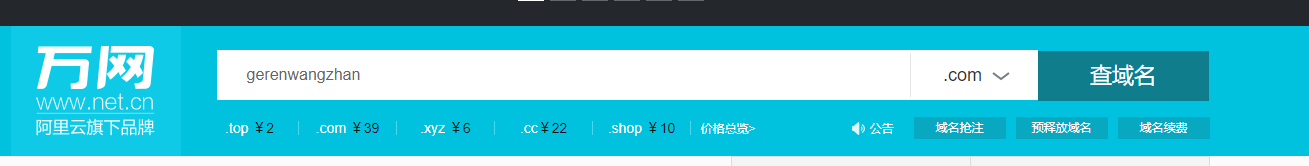
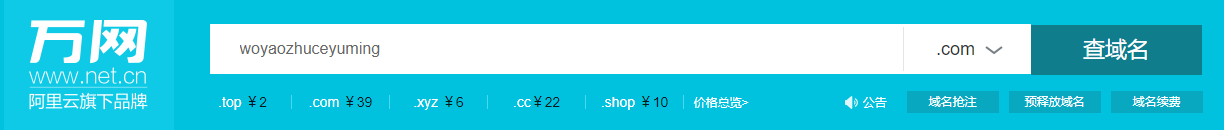
增加个人建站分享（一）

diff --git a/essay/essay01.html b/essay/essay01.html
@@ -28,13 +28,13 @@
     <p>想要建立一个属于自己的个人网站，有两样东西必不可少：域名，空间，接下来给大家讲讲域名和空间如何获取。</p>
     <h3>域名：</h3>
     <p>
-        可以注册域名的地方有很多，阿里啊，腾讯啊，同时也有很多免费域名，我的第一个网站就是用的免费域名，有好处也有坏处。好处是：省钱，省钱，省钱。然后没了。坏处：算不上坏处，仁者见仁智者见智，基本上免费的域名都是二级域名甚至三级域名，有个自己的名字多好，谁愿意自己名字前面加上个前缀？建议大家域名还是买个好~毕竟先在域名都白菜价了，".com"的顶级域名也才45元一年。</p>
+        可以注册域名的地方有很多，阿里啊，腾讯啊，同时也有很多免费域名，我的第一个网站就是用的免费域名，有好处也有坏处。好处是：省钱，省钱，省钱。然后没了。坏处：算不上坏处，仁者见仁智者见智，基本上免费的域名都是二级域名甚至三级域名，有个自己的名字多好，谁愿意自己名字前面加上个前缀？建议大家域名还是买个好~毕竟现在域名都白菜价了，".com"的顶级域名也才50元左右一年。</p>
     <p>我的域名选用的是万网的（现在已经被阿里收购了），直接<a href="https://wanwang.aliyun.com/?spm=5176.8142029.388261.261.22449968KOzUMF"
                                     target="_blank">域名查询</a>输入你想要的域名，然后查域名。如果没被别人使用，ok，价格能接受，买下就好了。具体步骤如下：
     </p>
     <p>点击我上面域名查询链接，或者自己登录阿里云，点击产品,找到域名与网站下的“域名注册”，进入万网查询域名。</p>
     <p><img src="img/001.png" alt="查域名"></p>
-    <p>比如图中输入"gerenwangzhan"后面选择".com"，点击查域名。会出现类似下图的界面</p>
+    <p>比如图中输入"woyaozhuceyuming"后面选择".com"，点击查域名。会出现类似下图的界面</p>
     <p><img src="img/002.png" alt="挑选域名"></p>
     <p>挑选域名，根据价格和喜好选一个自己喜欢的，然后买下就好啦。</p>
     <p>也可以等腾讯云，阿里云搞活动，我的就是搞活动，9.9买的空间加域名，当然着急的话就没办法了，买吧。</p>
